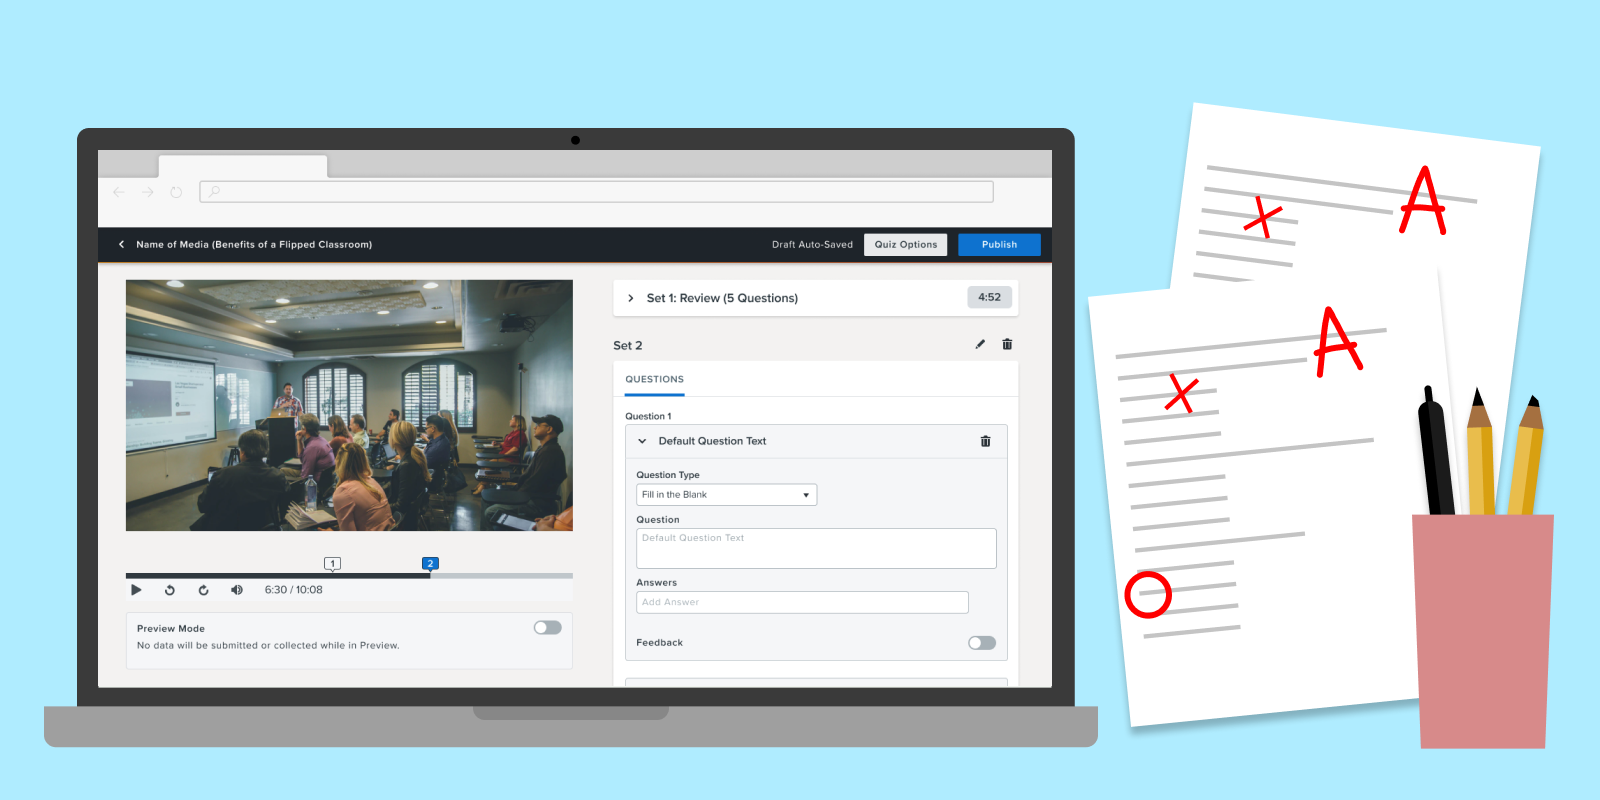
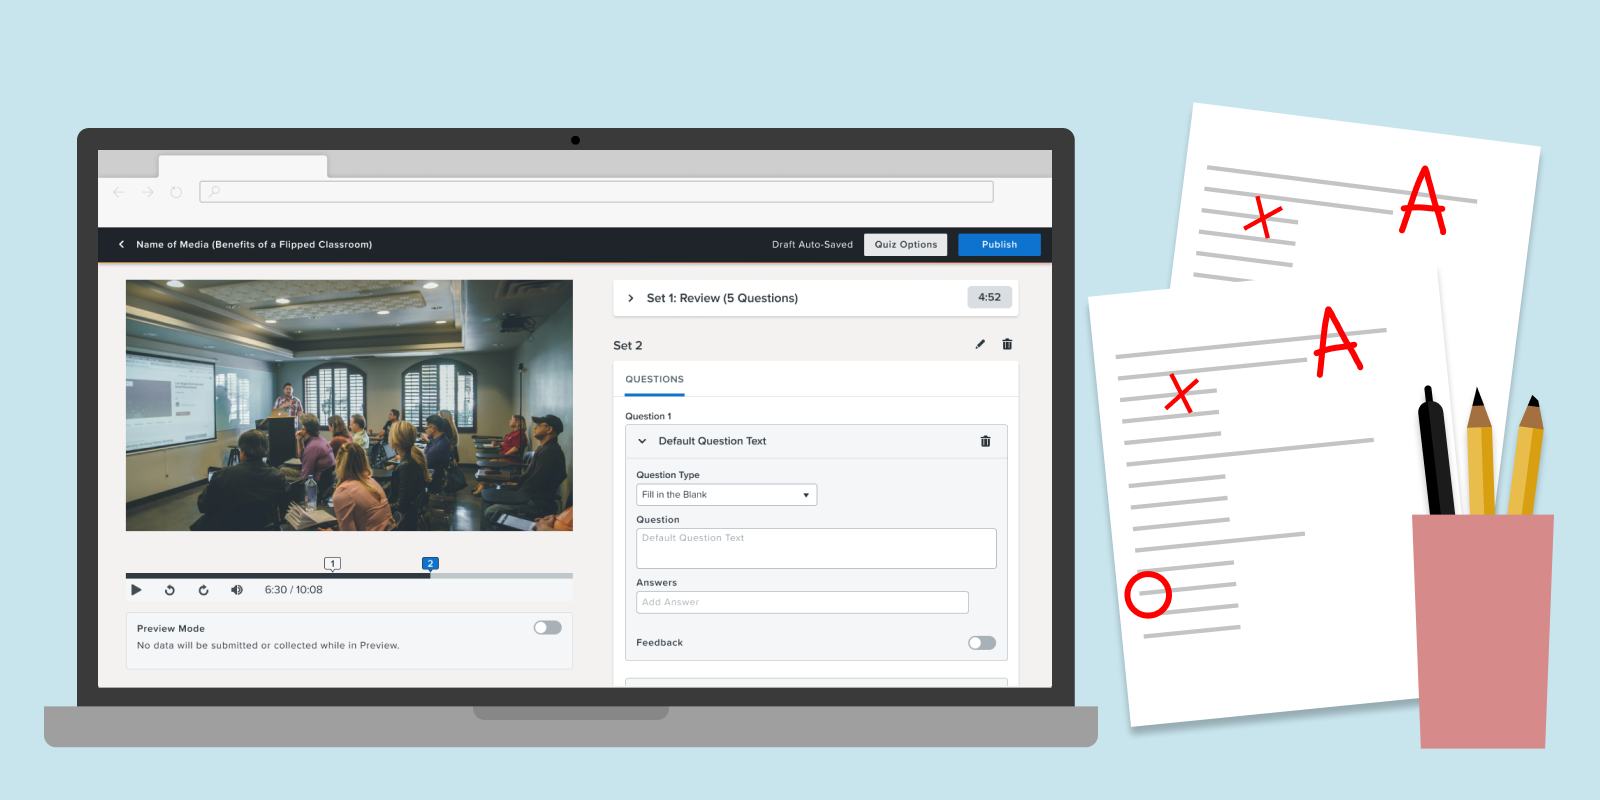
Quiz-hero update blue

diff --git a/css/main.css b/css/main.css
@@ -25,7 +25,7 @@ font-style: normal; */
   --dark: #2F2F2F;
   --white: #FFFFFF;
   --ifc-color: #ffe9af;
-  --quiz-color: #afecff;
+  --quiz-color: #C8E5EE;
   --sketchy-color: #bef2c3;
 }
 
